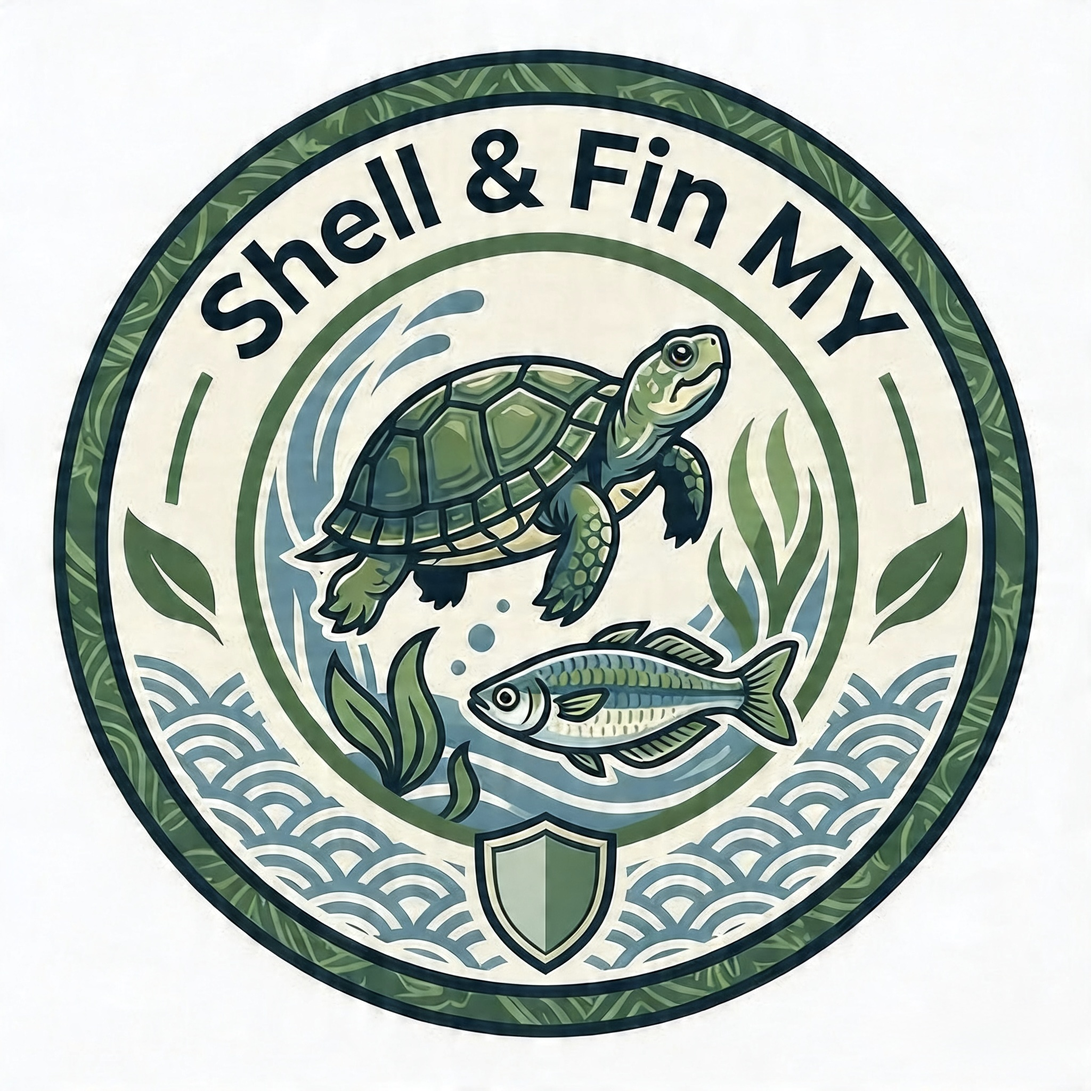
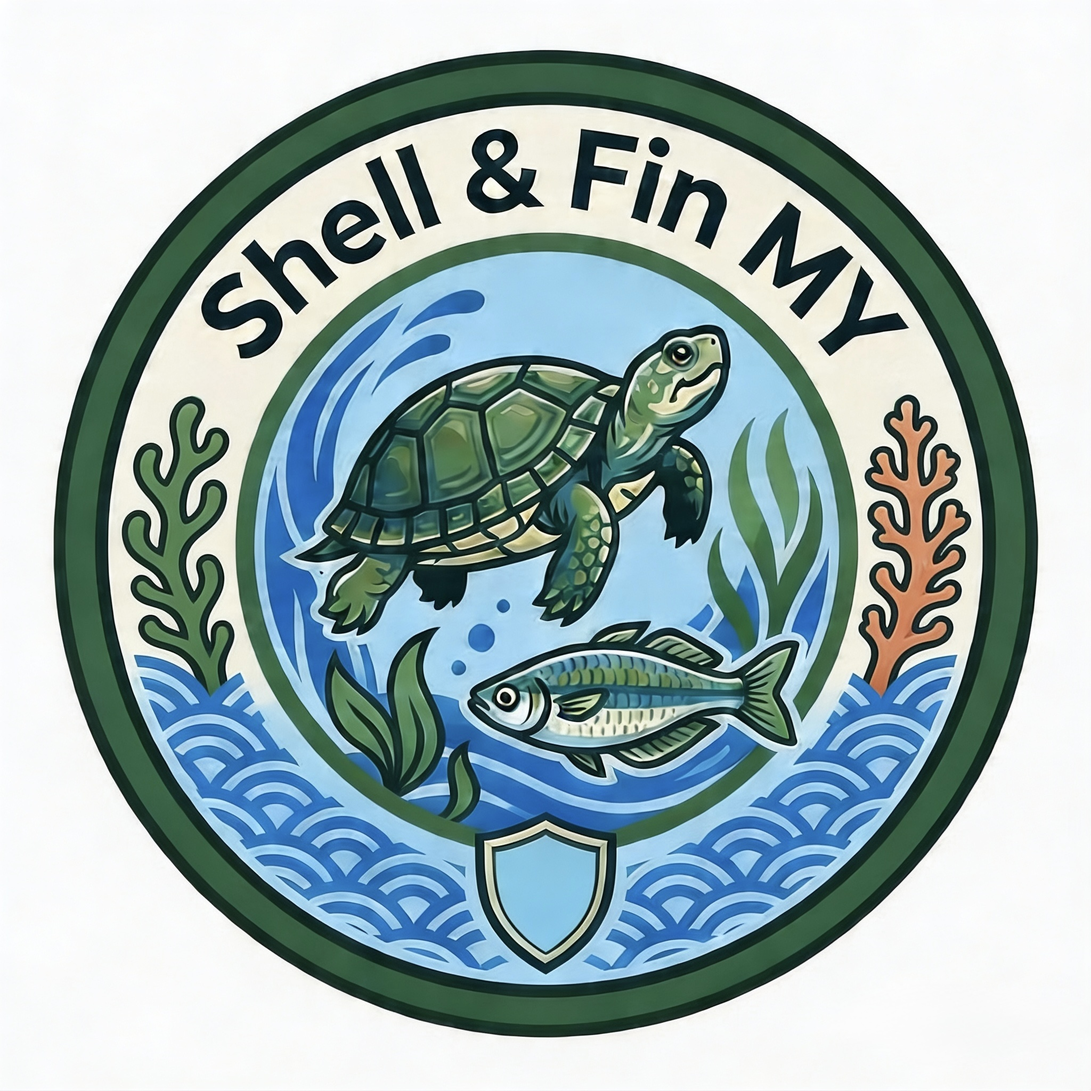
feat: add high risk recommendation version 1
- add high risk recommendation version 1
- update logo

diff --git a/src/app/pages/Home.tsx b/src/app/pages/Home.tsx
@@ -1,4 +1,4 @@
-import { Link, useNavigate } from "react-router";
+import { Link } from "react-router";
 import {
   AlertTriangle,
   ShieldCheck,
@@ -16,6 +16,7 @@ import { speciesData } from "../data/species";
 import { motion } from "motion/react";
 import { SearchAutocomplete } from "../components/SearchAutocomplete";
 import { usePetRecommendationPool } from "../hooks/usePetRecommendations";
+import { useHighRiskSpecies } from "../hooks/useHighRiskSpecies";
 import {
   getPetCommonNames,
   getDangerBadgeClasses,
@@ -37,11 +38,18 @@ function shuffleArray<T>(items: T[]) {
 }
 
 export function Home() {
-  const navigate = useNavigate();
-
   const { recommendations, loading, error } = usePetRecommendationPool();
+  const {
+    highRiskSpecies,
+    loading: highRiskLoading,
+    error: highRiskError,
+  } = useHighRiskSpecies();
+
   const [deck, setDeck] = useState<string[]>([]);
   const [cursor, setCursor] = useState(0);
+
+  const [highRiskDeck, setHighRiskDeck] = useState<string[]>([]);
+  const [highRiskCursor, setHighRiskCursor] = useState(0);
 
   useEffect(() => {
     if (!recommendations.length) return;
@@ -72,6 +80,32 @@ export function Home() {
     sessionStorage.setItem("home-recommendation-cursor", "0");
   }, [recommendations]);
 
+  useEffect(() => {
+    if (!highRiskSpecies.length) return;
+
+    const savedDeck = sessionStorage.getItem("home-high-risk-deck");
+    const savedCursor = sessionStorage.getItem("home-high-risk-cursor");
+
+    const validIds = new Set(highRiskSpecies.map((pet) => pet.pet_id));
+
+    if (savedDeck) {
+      const parsedDeck = JSON.parse(savedDeck) as string[];
+      const filteredDeck = parsedDeck.filter((id) => validIds.has(id));
+
+      if (filteredDeck.length >= 4) {
+        setHighRiskDeck(filteredDeck);
+        setHighRiskCursor(savedCursor ? Number(savedCursor) : 0);
+        return;
+      }
+    }
+
+    const shuffled = shuffleArray(highRiskSpecies.map((pet) => pet.pet_id));
+    setHighRiskDeck(shuffled);
+    setHighRiskCursor(0);
+    sessionStorage.setItem("home-high-risk-deck", JSON.stringify(shuffled));
+    sessionStorage.setItem("home-high-risk-cursor", "0");
+  }, [highRiskSpecies]);
+
   const visibleRecommendations = useMemo(() => {
     const petMap = new Map(
       recommendations.map((pet) => [pet.pet_id, pet] as const),
@@ -83,10 +117,16 @@ export function Home() {
       .filter((pet): pet is RecommendedPet => pet !== undefined);
   }, [recommendations, deck, cursor]);
 
-  // Get high risk species for alert section
-  const highRiskSpecies = speciesData.filter(
-    (species) => species.biodiversityRisk === "High",
-  );
+  const visibleHighRiskSpecies = useMemo(() => {
+    const petMap = new Map(
+      highRiskSpecies.map((pet) => [pet.pet_id, pet] as const),
+    );
+
+    return highRiskDeck
+      .slice(highRiskCursor, highRiskCursor + 4)
+      .map((id) => petMap.get(id))
+      .filter((pet): pet is RecommendedPet => pet !== undefined);
+  }, [highRiskSpecies, highRiskDeck, highRiskCursor]);
 
   function showNextRecommendations() {
     if (!deck.length) return;
@@ -107,6 +147,24 @@ export function Home() {
 
     setCursor(nextCursor);
     sessionStorage.setItem("home-recommendation-cursor", String(nextCursor));
+  }
+
+  function showNextHighRiskSpecies() {
+    if (!highRiskDeck.length) return;
+
+    let nextCursor = highRiskCursor + 4;
+
+    if (nextCursor >= highRiskDeck.length) {
+      const reshuffled = shuffleArray(highRiskDeck);
+      setHighRiskDeck(reshuffled);
+      setHighRiskCursor(0);
+      sessionStorage.setItem("home-high-risk-deck", JSON.stringify(reshuffled));
+      sessionStorage.setItem("home-high-risk-cursor", "0");
+      return;
+    }
+
+    setHighRiskCursor(nextCursor);
+    sessionStorage.setItem("home-high-risk-cursor", String(nextCursor));
   }
 
   return (
@@ -355,7 +413,7 @@ export function Home() {
       </section>
 
       {/* High Biodiversity Risk Alert */}
-      <section className="max-w-7xl mx-auto px-4 w-full pt-12">
+      {/* <section className="max-w-7xl mx-auto px-4 w-full pt-12">
         <div className="flex items-center justify-between mb-8">
           <div>
             <h2 className="text-3xl font-extrabold text-stone-900 flex items-center gap-3">
@@ -418,6 +476,128 @@ export function Home() {
               </div>
             </Link>
           ))}
+        </div>
+      </section> */}
+      {/* High Biodiversity Risk Alert */}
+      <section className="max-w-7xl mx-auto px-4 w-full pt-12">
+        <div className="flex items-center justify-between mb-8">
+          <div>
+            <h2 className="text-3xl font-extrabold text-stone-900 flex items-center gap-3">
+              <Leaf className="text-emerald-600" />
+              High Biodiversity Risk Alert
+            </h2>
+            <p className="text-stone-600 mt-2 text-lg">
+              Commonly bought pets that pose threats to local ecosystems if
+              released.
+            </p>
+          </div>
+
+          {!highRiskLoading && !highRiskError && highRiskSpecies.length > 4 && (
+            <button
+              type="button"
+              onClick={showNextHighRiskSpecies}
+              className="inline-flex items-center gap-2 self-start sm:self-auto rounded-full border border-stone-200 bg-white px-4 py-2 text-sm font-semibold text-stone-700 shadow-sm hover:bg-stone-50"
+            >
+              <RefreshCw className="h-4 w-4" />
+              Show more
+            </button>
+          )}
+        </div>
+
+        <div className="grid grid-cols-1 sm:grid-cols-2 lg:grid-cols-4 gap-8">
+          {highRiskLoading ? (
+            <div className="col-span-full flex items-center justify-center py-12">
+              <CircularProgress size={20} />
+            </div>
+          ) : highRiskError ? (
+            <p className="text-rose-600">{highRiskError}</p>
+          ) : visibleHighRiskSpecies.length === 0 ? (
+            <p className="text-stone-600">No high risk species found.</p>
+          ) : (
+            visibleHighRiskSpecies.map((pet, index) => {
+              const { primaryCommonName } = getPetCommonNames(pet);
+
+              return (
+                <motion.div
+                  key={pet.pet_id}
+                  initial={{ opacity: 0, y: 20 }}
+                  animate={{ opacity: 1, y: 0 }}
+                  transition={{ delay: index * 0.1 }}
+                >
+                  <Link
+                    to={`/species/${pet.pet_id}`}
+                    className="bg-white rounded-3xl overflow-hidden shadow-lg hover:shadow-2xl border border-stone-100 transition-all flex flex-col group cursor-pointer h-full"
+                  >
+                    <div className="relative h-56 overflow-hidden">
+                      <img
+                        src={
+                          pet.pet_image_ref
+                            ? `/pet_image/${pet.pet_image_ref}`
+                            : "/pet_image/pet_placeholder.png"
+                        }
+                        alt={pet.pet_vernacular_name ?? "Pet image"}
+                        className="w-full h-full object-cover group-hover:scale-105 transition duration-500"
+                      />
+
+                      <div className="absolute top-4 left-4 right-4 flex flex-wrap gap-2">
+                        {pet.pet_invasive_risk && (
+                          <span
+                            className={getDangerBadgeClasses(
+                              pet.pet_invasive_risk,
+                            )}
+                          >
+                            <ShieldAlert className="w-3 h-3" />
+                            {pet.pet_invasive_risk} Risk
+                          </span>
+                        )}
+
+                        {pet.pet_care_level && (
+                          <span
+                            className={getCareBadgeClasses(pet.pet_care_level)}
+                          >
+                            <HandHeart className="w-3 h-3" />
+                            {pet.pet_care_level} Care
+                          </span>
+                        )}
+                      </div>
+                    </div>
+
+                    <div className="p-6 flex-1 flex flex-col">
+                      <h3 className="text-xl font-bold text-stone-900 mb-1">
+                        {primaryCommonName}
+                      </h3>
+
+                      <p className="text-sm text-stone-500 italic mb-4 font-serif">
+                        {pet.pet_scientific_name ??
+                          "Scientific name unavailable"}
+                      </p>
+
+                      <div className="mb-4 flex flex-wrap gap-2">
+                        {pet.pet_is_native && (
+                          <span
+                            className={getNativeBadgeClasses(pet.pet_is_native)}
+                          >
+                            <Fish className="w-3 h-3" />
+                            {pet.pet_is_native}
+                          </span>
+                        )}
+                      </div>
+
+                      {pet.pet_comments && (
+                        <p className="text-stone-600 text-sm line-clamp-3 mb-6 flex-1">
+                          {pet.pet_comments}
+                        </p>
+                      )}
+
+                      <div className="text-emerald-700 font-semibold text-sm flex items-center gap-1 group-hover:gap-2 transition-all">
+                        View Profile & Care Guide →
+                      </div>
+                    </div>
+                  </Link>
+                </motion.div>
+              );
+            })
+          )}
         </div>
       </section>
 

diff --git a/api/high-risk-species.ts b/api/high-risk-species.ts
@@ -1,0 +1,48 @@
+import { neon } from "@neondatabase/serverless";
+
+const sql = neon(process.env.DATABASE_URL!);
+
+export default async function handler(req: any, res: any) {
+  try {
+    const rows = await sql`
+      select
+        pet_id,
+        pet_vernacular_name,
+        pet_scientific_name,
+        pet_care_level,
+        pet_is_native,
+        pet_danger,
+        pet_invasive_risk,
+        pet_image_ref,
+        pet_comments,
+        pet_cost::float8 as pet_cost
+      from public.pet
+      where
+        pet_invasive_risk ilike 'High%'
+        and pet_image_ref is not null
+      order by pet_id
+    `;
+
+    const normalizedRows = rows.map((row: any) => ({
+      pet_id: String(row.pet_id),
+      pet_vernacular_name: row.pet_vernacular_name ?? null,
+      pet_scientific_name: row.pet_scientific_name ?? null,
+      pet_care_level: row.pet_care_level ?? null,
+      pet_is_native: row.pet_is_native ?? null,
+      pet_danger: row.pet_danger ?? null,
+      pet_invasive_risk: row.pet_invasive_risk ?? null,
+      pet_image_ref:
+        typeof row.pet_image_ref === "string" ? row.pet_image_ref : null,
+      pet_comments: row.pet_comments ?? null,
+      pet_cost: row.pet_cost == null ? null : Number(row.pet_cost),
+    }));
+
+    return res.status(200).json(normalizedRows);
+  } catch (error) {
+    console.error("high risk species error:", error);
+
+    return res.status(500).json({
+      error: error instanceof Error ? error.message : "Internal server error",
+    });
+  }
+}

diff --git a/src/app/hooks/useHighRiskSpecies.ts b/src/app/hooks/useHighRiskSpecies.ts
@@ -1,0 +1,48 @@
+import { useQuery } from "@tanstack/react-query";
+import type { RecommendedPet } from "../types/pet.types";
+
+type HighRiskSpeciesResponse = RecommendedPet[];
+
+async function fetchHighRiskSpecies(): Promise<HighRiskSpeciesResponse> {
+  const response = await fetch("/api/high-risk-species");
+  const raw = await response.text();
+
+  let data: unknown;
+
+  try {
+    data = raw ? JSON.parse(raw) : [];
+  } catch {
+    console.error("Non-JSON response from /api/high-risk-species:", raw);
+    throw new Error(
+      `API returned ${response.status} but not JSON. Open /api/high-risk-species directly in the browser and check your terminal.`,
+    );
+  }
+
+  if (!response.ok) {
+    const message =
+      typeof data === "object" &&
+      data !== null &&
+      "error" in data &&
+      typeof (data as { error?: unknown }).error === "string"
+        ? (data as { error: string }).error
+        : "Failed to load high risk species";
+
+    throw new Error(message);
+  }
+
+  return Array.isArray(data) ? (data as HighRiskSpeciesResponse) : [];
+}
+
+export function useHighRiskSpecies() {
+  const query = useQuery({
+    queryKey: ["high-risk-species"],
+    queryFn: fetchHighRiskSpecies,
+    staleTime: 1000 * 60 * 30,
+  });
+
+  return {
+    highRiskSpecies: query.data ?? [],
+    loading: query.isPending,
+    error: query.error instanceof Error ? query.error.message : null,
+  };
+}
